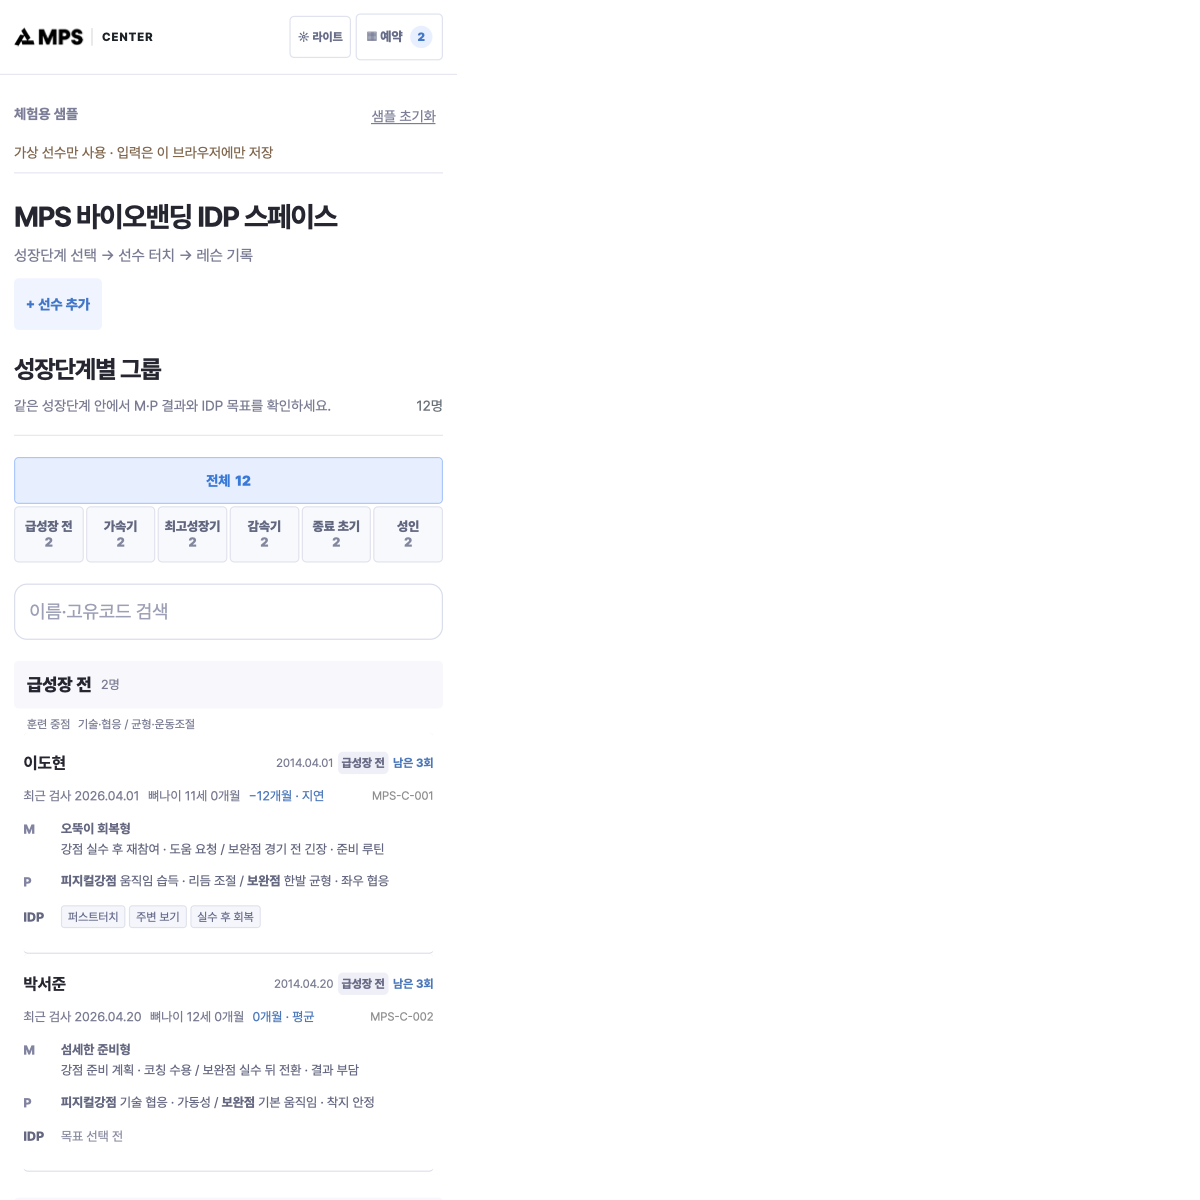
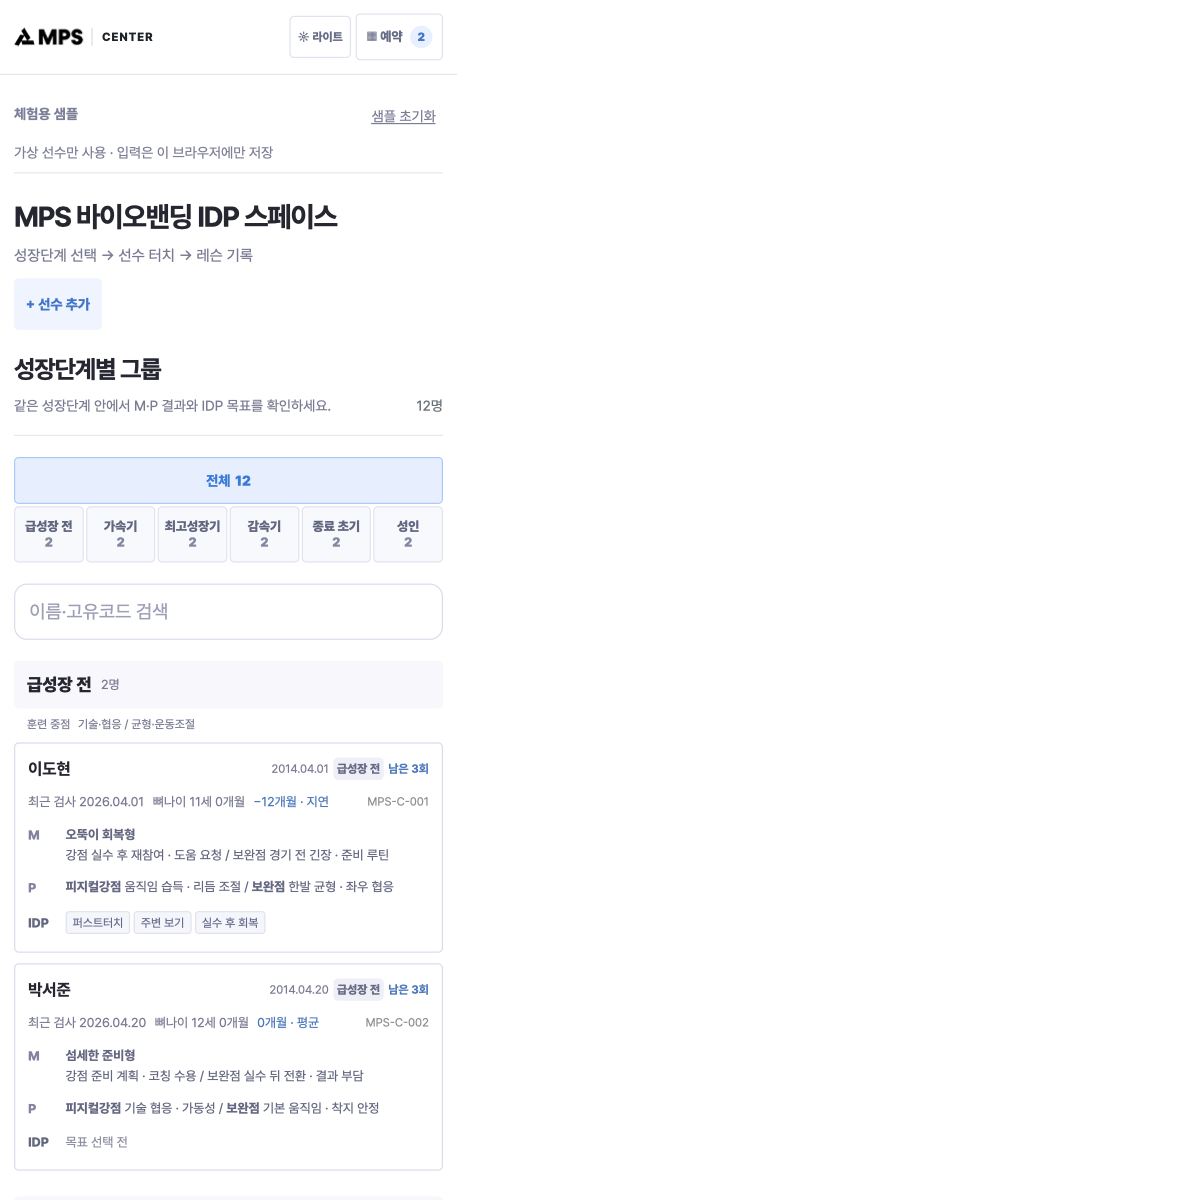
Outline individual players and remove remaining light orange accents

diff --git a/style.css b/style.css
@@ -770,3 +770,24 @@ button,input,select,textarea{min-width:0}
 :root[data-theme="light"] .demo{color:#7f8098}
 :root[data-theme="light"] .stage-change,:root[data-theme="light"] .idp-trends small,:root[data-theme="light"] .idp-priority small{color:#7c86a0}
 :root[data-theme="light"] .detail-head{border-color:#e1e3ee}
+/* Individual player outlines, with quiet spacing and no accent rails. */
+.stage-players{gap:10px}
+.stage-players>.player-card-button,.stage-players>.player-card-button.selected{border:1px solid #52525e;border-radius:4px!important;padding:12px}
+:root[data-theme="light"] .stage-players{padding:8px 0 0;gap:10px}
+:root[data-theme="light"] .stage-players>.player-card-button,:root[data-theme="light"] .stage-players>.player-card-button.selected{background:#fff;border:1px solid #d9dcea;border-radius:4px!important;padding:12px;box-shadow:none}
+:root[data-theme="light"] .stage-players>.player-card-button:hover{background:#fafaff;border-color:#b7c7e7}
+@media(max-width:700px){.stage-players>.player-card-button,:root[data-theme="light"] .stage-players>.player-card-button{padding:11px}.stage-players,:root[data-theme="light"] .stage-players{gap:9px}}
+/* Light mode contains no orange accents, including expanded and hover states. */
+:root[data-theme="light"]{--orange:#4b86ee;--lime:#e9f1ff;--warm:#f5f7fd}
+:root[data-theme="light"] .stage-guide,:root[data-theme="light"] .focus-panel{border-color:#dde2ef}
+:root[data-theme="light"] .stage-guide .eyebrow,:root[data-theme="light"] .focus-panel .eyebrow{color:#7f86a1}
+:root[data-theme="light"] .stage-guide p,:root[data-theme="light"] .focus-panel p{color:#646b81}
+:root[data-theme="light"] .stage-guide>div span,:root[data-theme="light"] .focus-choice{background:#fff;border-color:#dce1ee;color:#6c7590}
+:root[data-theme="light"] .focus-choice.active{background:#e9f1ff;border-color:#a8c5f6;color:#3e72bf;box-shadow:none}
+:root[data-theme="light"] .focus-panel>small{color:#8990a6}
+:root[data-theme="light"] .stage-compare>span,:root[data-theme="light"] .focus-optional summary span{color:#779bd0}
+:root[data-theme="light"] .badge{background:#eef2fb;color:#6d7e9f}
+:root[data-theme="light"] .text-danger{color:#a5566f}
+:root[data-theme="light"] .day-grid button small,:root[data-theme="light"] .weekdays span:first-child{color:#6689c0}
+:root[data-theme="light"] .day-grid button:hover,:root[data-theme="light"] .calendar-trigger:hover,:root[data-theme="light"] .player-tabs button:hover{border-color:#a8c5f6}
+:root[data-theme="light"] .tag.stage,:root[data-theme="light"] .tag.maturity,:root[data-theme="light"] .tag.sessions{background:#eef2fa;color:#6c7d9d}
